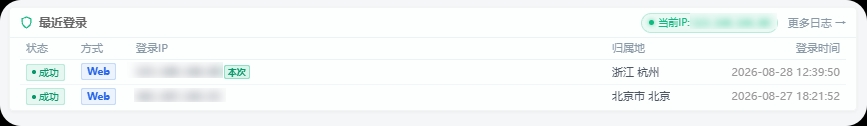
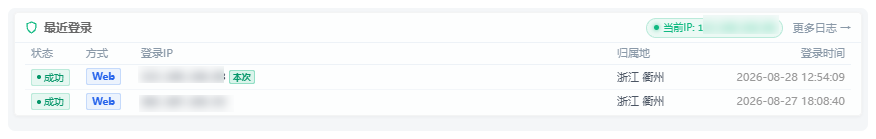
readme

diff --git a/文档/御风面板说明书/说明书.md b/文档/御风面板说明书/说明书.md
@@ -143,9 +143,7 @@ curl --insecure -fsSL https://raw.githubusercontent.com/clhome/bt_simple/refs/he
 
 ![image-20260630174158629](说明书.assets/image-20260630174158629.png)
 
-------
-
-
+---
 
 ## 第三部分：面板全局界面布局与基础设置
 
@@ -159,7 +157,7 @@ curl --insecure -fsSL https://raw.githubusercontent.com/clhome/bt_simple/refs/he
 - **上方状态栏**：显示当前系统负载、运行时间以及重启面板或服务器的快捷操作按钮。
 - **核心卡片区域**：由系统状态（CPU与内存）、概览（网站与数据库数量）、软件格子（快速操作）、网络与磁盘 IO 四大部分组成。
 
-![image-20260630174421927](说明书.assets/image-20260630174421927.png)
+![image-20260630174421927](说明书.assets/index.webp)
 
 #### 物理微交互设计：
 
@@ -211,7 +209,6 @@ curl --insecure -fsSL https://raw.githubusercontent.com/clhome/bt_simple/refs/he
 
 ![image-20260605162902035](说明书.assets/image-20260605162902035.png)
 
-
 #### 步骤一：新建一个站点
 
 1. 点击左侧的“网站”菜单，点击【添加网站】按钮。
@@ -252,7 +249,7 @@ _![image-20260605163024526](说明书.assets/image-20260605163024526.png)_
 
 网站建好后，我们需要把网页代码上传到服务器上。点击左侧“文件”菜单，这就是您的“云端资源管理器”。
 
-_![image-20260605163358778](说明书.assets/image-20260605163358778.png)
+\_![image-20260605163358778](说明书.assets/image-20260605163358778.png)
 
 #### 特性一：多标签页浏览器体验
 
@@ -282,15 +279,11 @@ _![image-20260605163358778](说明书.assets/image-20260605163358778.png)
 
 - _解决方法_：
   1. 在文件管理器中，勾选您的网站根目录下的所有文件。
-  
   2. 点击上方的【权限】按钮。
-  
   3. 将“所有者”修改为 `www`。
-  
   4. 将“权限值”修改为目录 `755`，文件 `644`。
-  
   5. 勾选【应用到子目录】，点击确定。网站即可恢复正常访问。
-  
+
      ![image-20260605164713053](说明书.assets/image-20260605164713053.png)
 
 #### 特性五：内置高级代码编辑器与注释快捷键
@@ -417,6 +410,7 @@ _![image-20260605163358778](说明书.assets/image-20260605163358778.png)
 #### 步骤五：Docker 等环境安装国内镜像自适应机制
 
 由于国内服务器下载 Docker 引擎和第三方 Python 依赖库时经常会遭遇网络限流或连接重置导致安装卡死的问题，御风面板的软件商店安装脚本在底层全面适配了中国区镜像加速：
+
 - **Docker 自动镜像换源**：在安装 Docker 插件时，系统如果检测到是在国内服务器运行，会自动将 Docker 的软件安装源重置为国内主流阿里/清华镜像源，并引入自动重试容灾机制，完美规避 Docker 无法启动及由于 “Recv failure: Connection reset by peer” 导致的安装报错与假死问题。
 
 ## 第五部分：系统监控与性能调优
@@ -435,8 +429,9 @@ _![image-20260605163358778](说明书.assets/image-20260605163358778.png)
 2. **内存与 Swap（交换分区）**：
    - _物理内存（RAM）_：服务器运行程序时临时存放数据的空间。如果内存满了，系统会自动强制关闭一些程序（比如把您的 MySQL 数据库直接杀掉）。
    - _Swap 交换分区_：这是一种**兜底机制**。它是把服务器硬盘的一部分虚拟成内存来使用。当物理内存快满时，系统会把不常用的数据挪到 Swap 中，防止软件因内存不足而直接崩溃。作为新手，如果发现物理内存快满了，但 Swap 还有很多空闲，您的服务器依然是安全的。
-   
+
    ![image-20260605165400871](说明书.assets/image-20260605165400871.png)
+
 3. **网络流量（网卡流量）**：
    - _流量流入（Rx）_：外部世界向您的服务器发送的数据大小（比如用户上传文件，或者黑客对您进行流量攻击）。
    - _流量流出（Tx）_：您的服务器向外发送的数据大小（比如用户在下载您网站里的图片、看您的网页视频）。
@@ -619,8 +614,9 @@ tar -czf /www/backup/bt_simple_data_$(date +%Y%m%d).tar.gz /www/server/mdserver-
   - **XSS跨站脚本防御**：拦截在网页中插入恶意广告或窃取他人 Cookie 的脚本。
   - **CC防护（防恶意刷新）**：当单个 IP 访问频率暴增（例如 1 秒内请求了 100 次同一个页面），WAF 会判定其在进行 CC 刷流量，直接返回“验证码”或将该 IP 临时拉黑。
   - **Cookie 防御与 UA 拦截**：防止恶意爬虫和扫描器对您的网站进行全盘扫描。
-  
+
   ![image-20260605170413773](说明书.assets/image-20260605170413773.png)
+
 - **IP 段 CIDR 拦截**：如果某个特定的 IP 范围（如某个恶意的云厂商机房段）频繁攻击您的网站，您可以直接以 `192.168.1.0/24` 的 CIDR 格式添加黑名单，一键封锁整段 IP。
   - **WAF 蜜罐防护与 Decoy（诱饵）阻断**：全新支持防火墙蜜罐技术。在站点隐藏入口部署“虚拟漏洞蜜点”，一旦扫描器尝试踩雷探测，系统能自动锁定其恶意行为、追踪工具指纹并予以封禁。
   - **浏览器指纹识别 (Browser Fingerprinting)**：多维度校验访问客户端的浏览器属性（包括渲染特性、无头浏览器标识等），从底层彻底拦截高级自动化爆破及 CC 攻击脚本。
@@ -643,10 +639,6 @@ tar -czf /www/backup/bt_simple_data_$(date +%Y%m%d).tar.gz /www/server/mdserver-
 ```
 http://xxx.xxx.com/?id=1+union+select+1,2,3
 ```
-
-
-
-
 
 ![image-20260605170025113](说明书.assets/image-20260605170025113.png)
 
@@ -781,10 +773,12 @@ http://xxx.xxx.com/?id=1+union+select+1,2,3
 **御风Python多版本管理器** 采用业界前沿的 `uv` 工具构建，为您提供极速、安全、完全无侵入的多版本与虚拟环境管理体验。
 
 #### 1. 无侵入多版本一键管理
+
 - **全局环境零污染**：所有通过面板安装的 Python 版本均独立存放于用户目录下，与系统原有的 Python 环境实现彻底的物理隔离。
 - **极速安装与安全卸载**：在“可用版本”列表中，支持所有主流 CPython 版本的秒级拉取与安装；面板自带“防手抖”误删保护机制，一旦系统检测到某版本名下关联了任何虚拟环境，其卸载按钮将被智能锁定并拦截后端请求。
 
 #### 2. 企业级项目虚拟环境智能管理 (venv)
+
 - **零配置自动化创建**：只需在面板弹窗中输入项目根目录（如 `/www/wwwroot/my_project`），系统会自动在该目录下无痕创建符合行业标准的 `.venv` 隐藏文件夹。
 - **多环境防迷失标识 (Prompt 注入)**：在同时维护多个项目的复杂场景下，为了防止终端环境提示符全是雷同的 `(.venv)` 而引发误操作，面板首创企业级增强方案——底层在创建环境时，会自动提取您的项目名称，并利用 `--prompt` 参数将其强行注入为虚拟环境终端标识。激活后终端行首将清晰地显示 `(my_project)`，让多开环境不再混乱。
 - **一键应用环境指令**：面板自动生成基于项目目录的专属激活指令。用户只需点击绿色的“应用环境命令”按钮一键复制，即可在 SSH 终端中瞬间进入独立、无污染的开发沙盒。
@@ -821,8 +815,6 @@ http://xxx.xxx.com/?id=1+union+select+1,2,3
 > **御风面板（BtSimple）** —— 御风而行，安全无忧，让每一次网络运维都化繁为简。
 
 ---
-
-
 
 <p align="right">
 <strong>YuFengTec   衢州御风科技有限公司</strong><br>

diff --git a/README.md b/README.md
@@ -25,7 +25,7 @@
 
 - **轻量高效**：相比于传统面板，BtSimple 占用资源极低，非常适合小内存 VPS。
 
-![首页](https://raw.githubusercontent.com/clhome/bt_simple/master/文档/御风面板说明书/说明书.assets/image-20260630174421927.png)
+![首页](https://raw.githubusercontent.com/clhome/bt_simple/master/文档/御风面板说明书/说明书.assets/index.webp)
 
 - **安全加固**：
   - **100% 独立解耦与后门物理清洗**：全局清除了已发现的所有后门及网络依赖，实现了完全自主、去中心化的纯净自运维架构。
